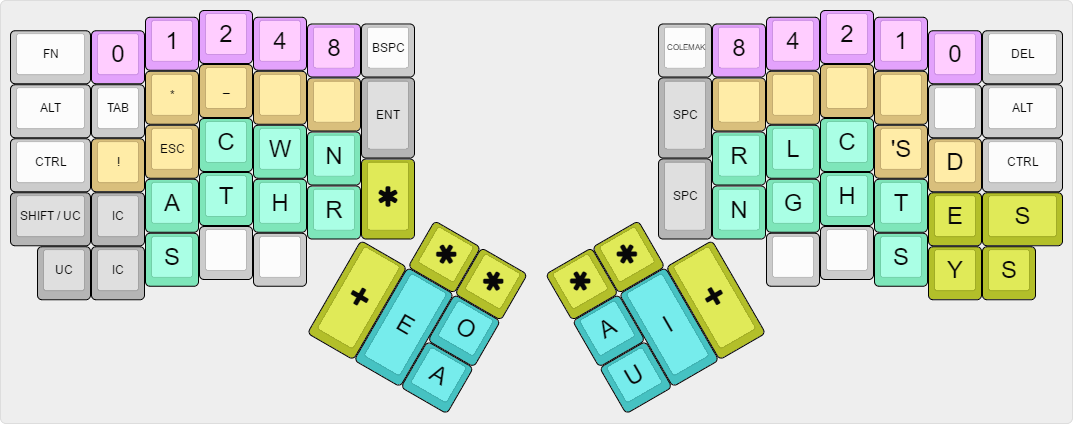
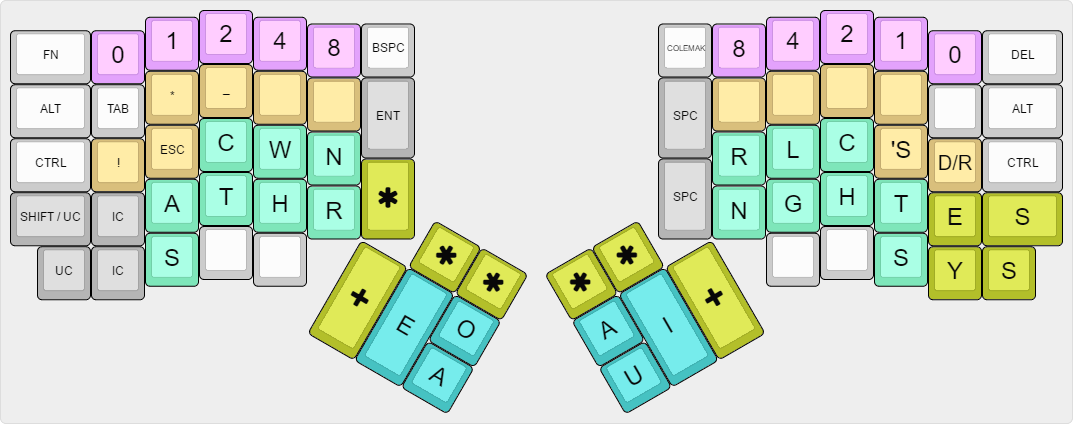
Programmer Steno : ED and ER variants in the right user table

diff --git a/keyboard/ergodox_ez/keymaps/fromtonrouge/lookup_tables/user_tables.h b/keyboard/ergodox_ez/keymaps/fromtonrouge/lookup_tables/user_tables.h
@@ -83,17 +83,17 @@ const uint16_t PROGMEM g_right_user_symbols_table[64][MAX_SYMBOLS] =
     _S3(_N, _APOS, _T),                     // [6]      1|2
     NO_ENTRY,                               // [7]      0|1|2
     NO_ENTRY,                               // [8]      3
-    NO_ENTRY,                               // [9]      0|3
+    _S1(_R),                                // [9]      0|3
     _S3(_APOS, _L, _L),                     // [10]     1|3
-    NO_ENTRY,                               // [11]
+    _S1(_D),                                // [11]     0|1|3
     NO_ENTRY,                               // [12]     2|3
     NO_ENTRY,                               // [13]     0|2|3
     NO_ENTRY,                               // [14]     1|2|3
     NO_ENTRY,                               // [15]
     NO_ENTRY,                               // [16]     4
-    NO_ENTRY,                               // [17]     0|4
+    _S1(_R),                                // [17]     0|4
     _S3(_APOS, _V, _E),                     // [18]     1|4
-    NO_ENTRY,                               // [19]
+    _S1(_D),                                // [19]     0|1|4
     NO_ENTRY,                               // [20]     2|4
     NO_ENTRY,                               // [21]     0|2|4
     NO_ENTRY,                               // [22]
@@ -107,9 +107,9 @@ const uint16_t PROGMEM g_right_user_symbols_table[64][MAX_SYMBOLS] =
     NO_ENTRY,                               // [30]
     NO_ENTRY,                               // [31]
     NO_ENTRY,                               // [32]     5
-    NO_ENTRY,                               // [33]     0|5
+    _S1(_R),                                // [33]     0|5
     _S2(_APOS, _D),                         // [34]     1|5
-    NO_ENTRY,                               // [35]     0|1|5
+    _S1(_D),                                // [35]     0|1|5
     NO_ENTRY,                               // [36]
     NO_ENTRY,                               // [37]
     NO_ENTRY,                               // [38]

diff --git a/keyboard/ergodox_ez/keymaps/fromtonrouge/readme.md b/keyboard/ergodox_ez/keymaps/fromtonrouge/readme.md
@@ -493,11 +493,17 @@ Punctuations (when * is used with the left or/and right hand) [WORK IN PROGRESS]
 
     [WORK IN PROGRESS]
 
-    d                   =       0                   [1]     Usefull for words ending with ED
-    's                  =       1                   [2]     Main control key for english contractions ('s, n't, 'll etc...)
-    r                   =       0|1                 [3]     Usefull for words ending with TER THER
-    n't                 =       1|2                 [6]
-    'll                 =       1|3                 [10]   
-    've                 =       1|4                 [18]
-    'd                  =       1|5                 [34]
+    D                   =       0                   [1]     For words ending with ED
+    'S                  =       1                   [2]     Main control key for english contractions ('s, n't, 'll etc...)
+    R                   =       0|1                 [3]     For words ending with TER THER
+    N'T                 =       1|2                 [6]
+    R                   =       0|3                 [9]     For words ending with ER (variant 1)
+    'LL                 =       1|3                 [10]   
+    D                   =       0|1|3               [11]    For words ending with TED THED (variant 1)
+    R                   =       0|4                 [17]    For words ending with ER (variant 2)
+    'VE                 =       1|4                 [18]
+    D                   =       0|1|4               [19]    For words ending with TED THED (variant 2)
+    R                   =       0|5                 [33]    For words ending with ER (variant 3)
+    'D                  =       1|5                 [34]
+    D                   =       0|1|5               [35]    For words ending with TED THED (variant 3)
 
